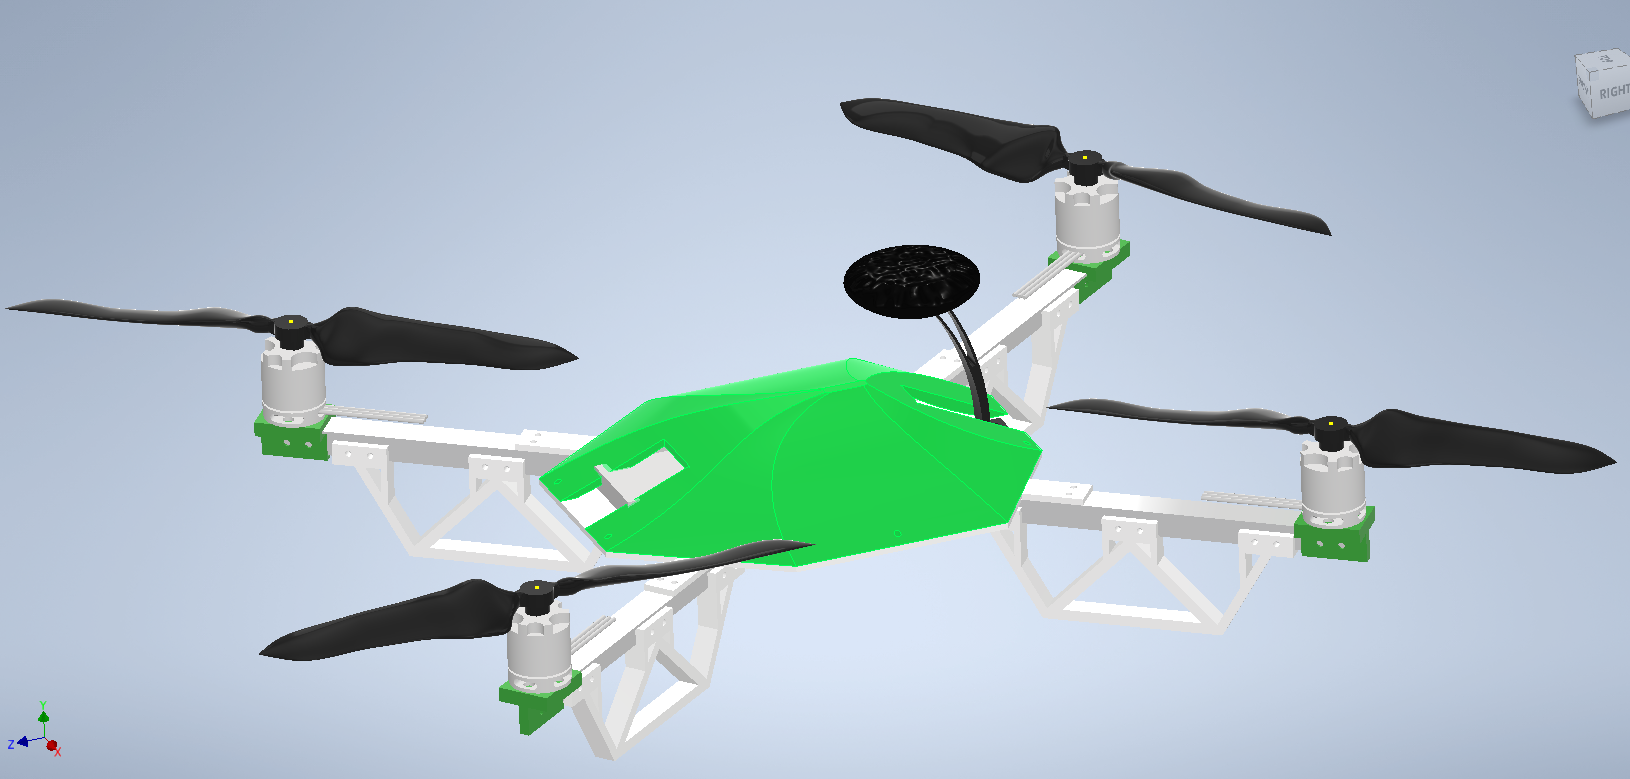
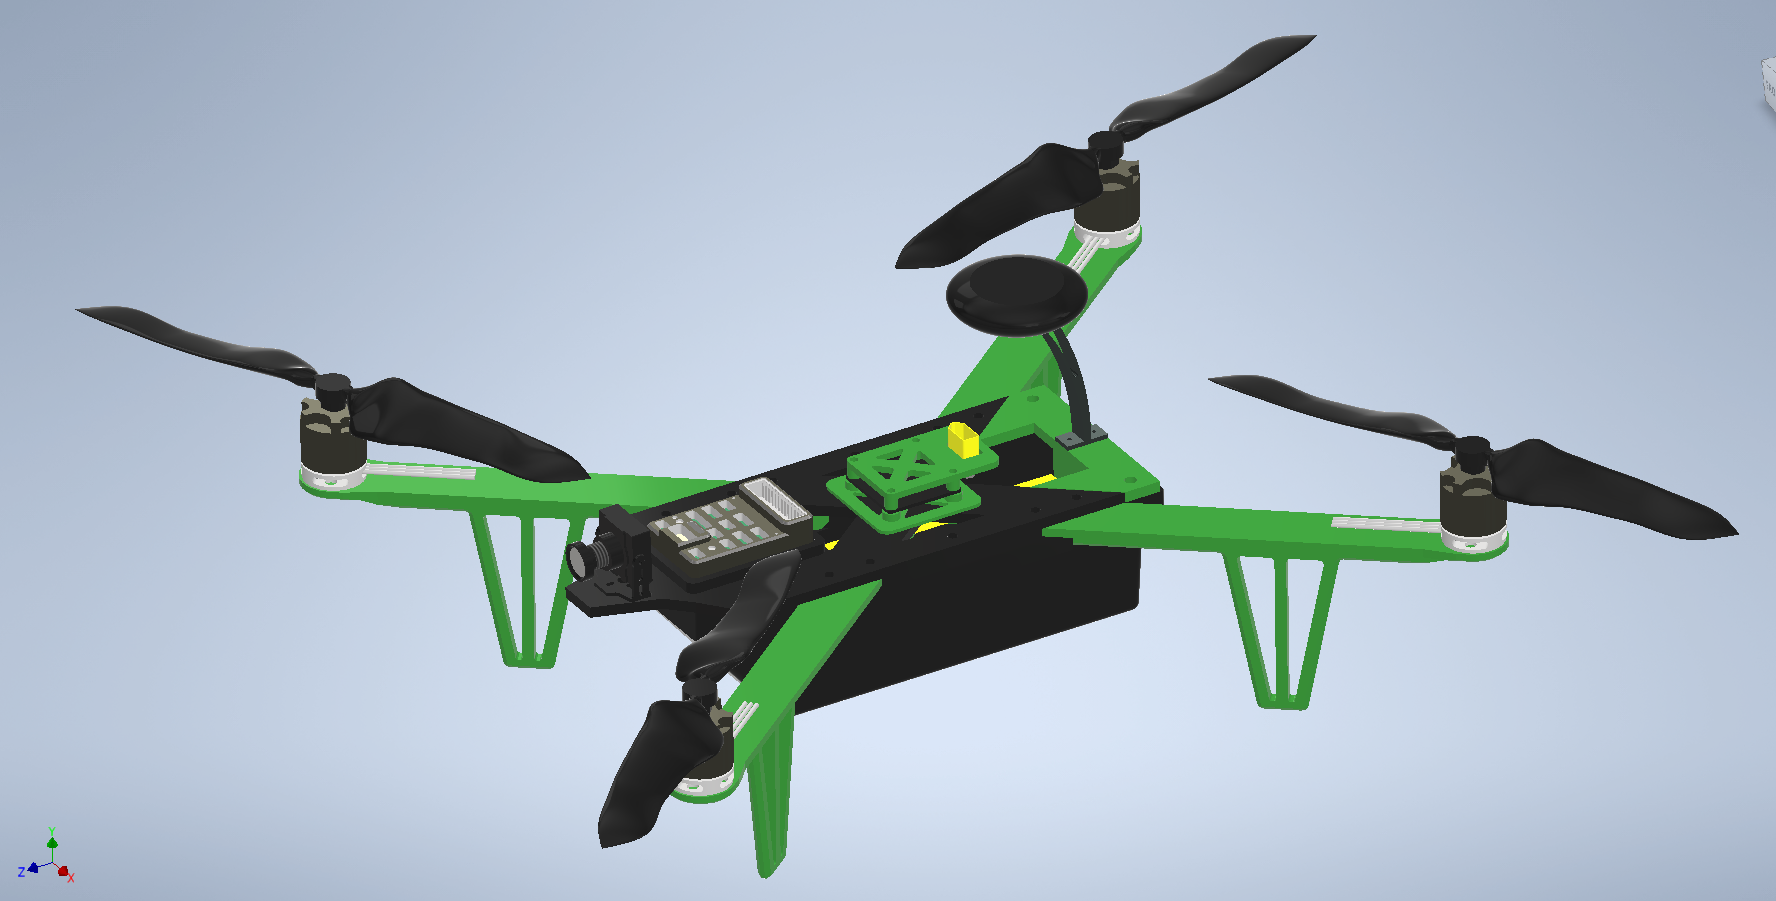
drone post

Changed region(s): [[0.0, 0.0308, 1.0, 0.9859], [0.9509, 0.0616, 1.0, 0.154], [0.0, 0.9243, 0.0613, 0.9859]]

diff --git a/content/es/proyecto/drone-personal/index.md b/content/es/proyecto/drone-personal/index.md
@@ -6,13 +6,13 @@ tags = ["Drones", "Impresión 3D"]
 
 date = "2020-12-03"
 
-draft = true
+draft = false
 
 translationKey = "personal-drone"
 
 +++
 
-Por encargo de un cliente, comenzamos a diseñar un drone para uso personal. Al ser nuestro primer proyecto de drone, decidimos usar tecnologías y componentes que servirán como prueba para futuros proyectos y otras aplicaciones.
+Por encargo de un cliente, comenzamos a diseñar un drone para uso personal. Al ser nuestro primer proyecto de drone, decidimos usar tecnologías y componentes que servirán como prueba y demostradores para futuros proyectos y otras aplicaciones.
 
 ### Características
 - 2kg de capacidad de empuje de motores y hélices
@@ -21,4 +21,11 @@ Por encargo de un cliente, comenzamos a diseñar un drone para uso personal. Al 
 - Capacidades de navegación GNSS/GPS
 - Control manual o por piloto automático
 
-## Imágenes
+## Imágenes del avance
+- Primer diseño
+![](/media/Drone_R0.png)
+- Despliegue inicial
+![](/media/Drone_mockup.jpg)
+- Diseño actual
+![](/media/Drone_R1_14.png)
+![](/media/Drone_R1_14L.png)

diff --git a/content/en/project/personal-drone/index.md b/content/en/project/personal-drone/index.md
@@ -6,13 +6,13 @@ tags = ["Drones", "3D Printing"]
 
 date = "2020-12-03"
 
-draft = true
+draft = false
 
 translationKey = "personal-drone"
 
 +++
 
-In order to obtain skills in drone development, an autonomous drone project was started. Being our first drone project, we decided to use accessible yet expandable technologies and components that will serve as a testbed for futures projecs and wider applications.
+In order to obtain skills in drone development, an autonomous drone project was started. Being our first drone project, we decided to use accessible yet expandable technologies and components that will serve as a testbed and demonstrator for future projects and wider applications.
 
 ### Characteristics
 - 2kg of lift from motors and propellers
@@ -21,4 +21,4 @@ In order to obtain skills in drone development, an autonomous drone project was 
 - GNSS/GPS positioning and navigation capabilities
 - Manual and autonomous control
 
-## Images
+## Images of the progress
